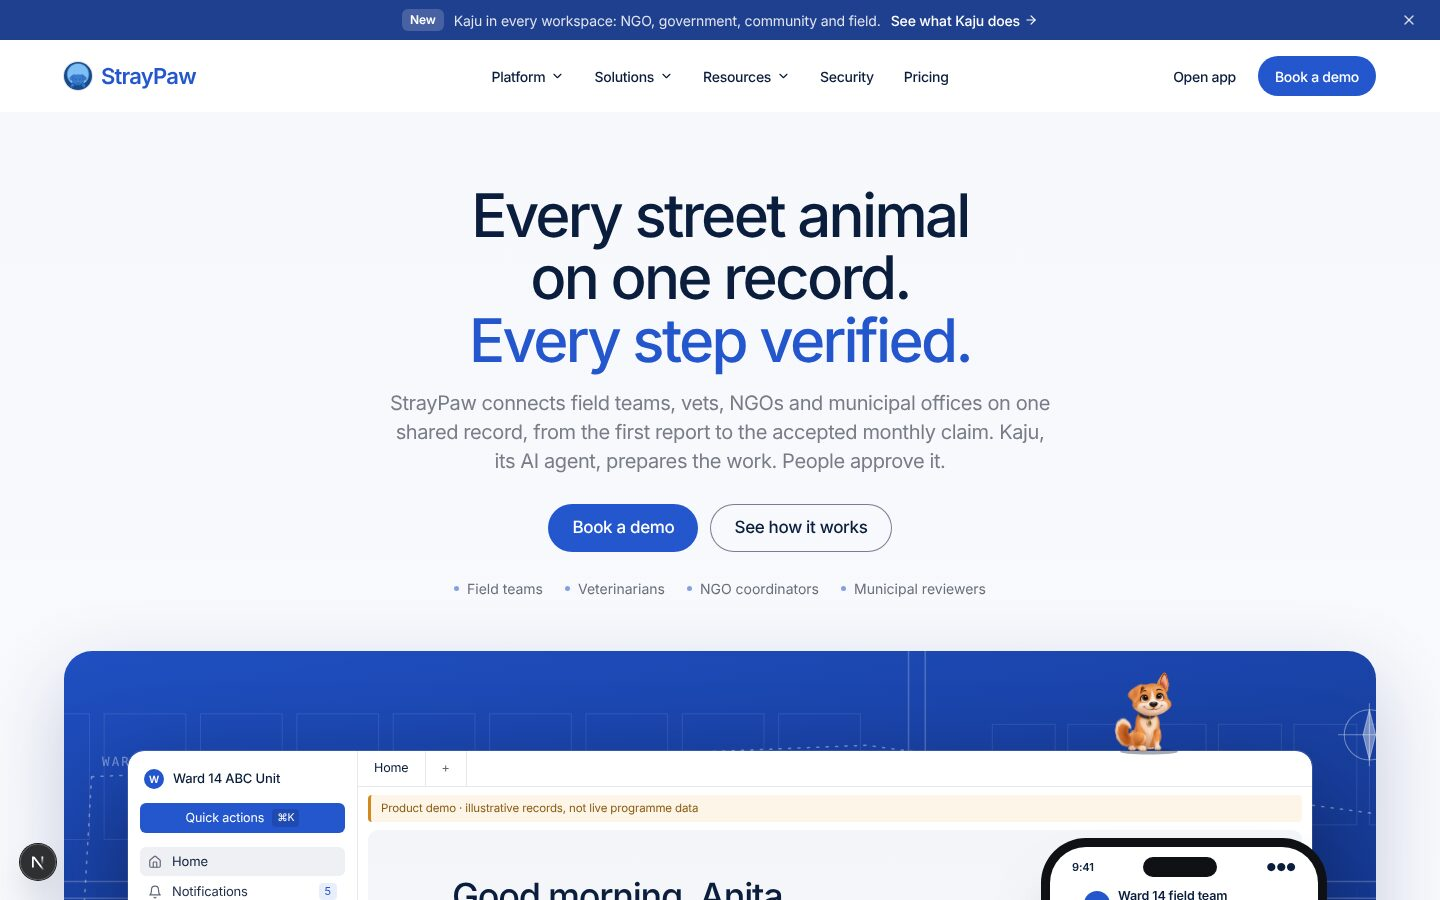
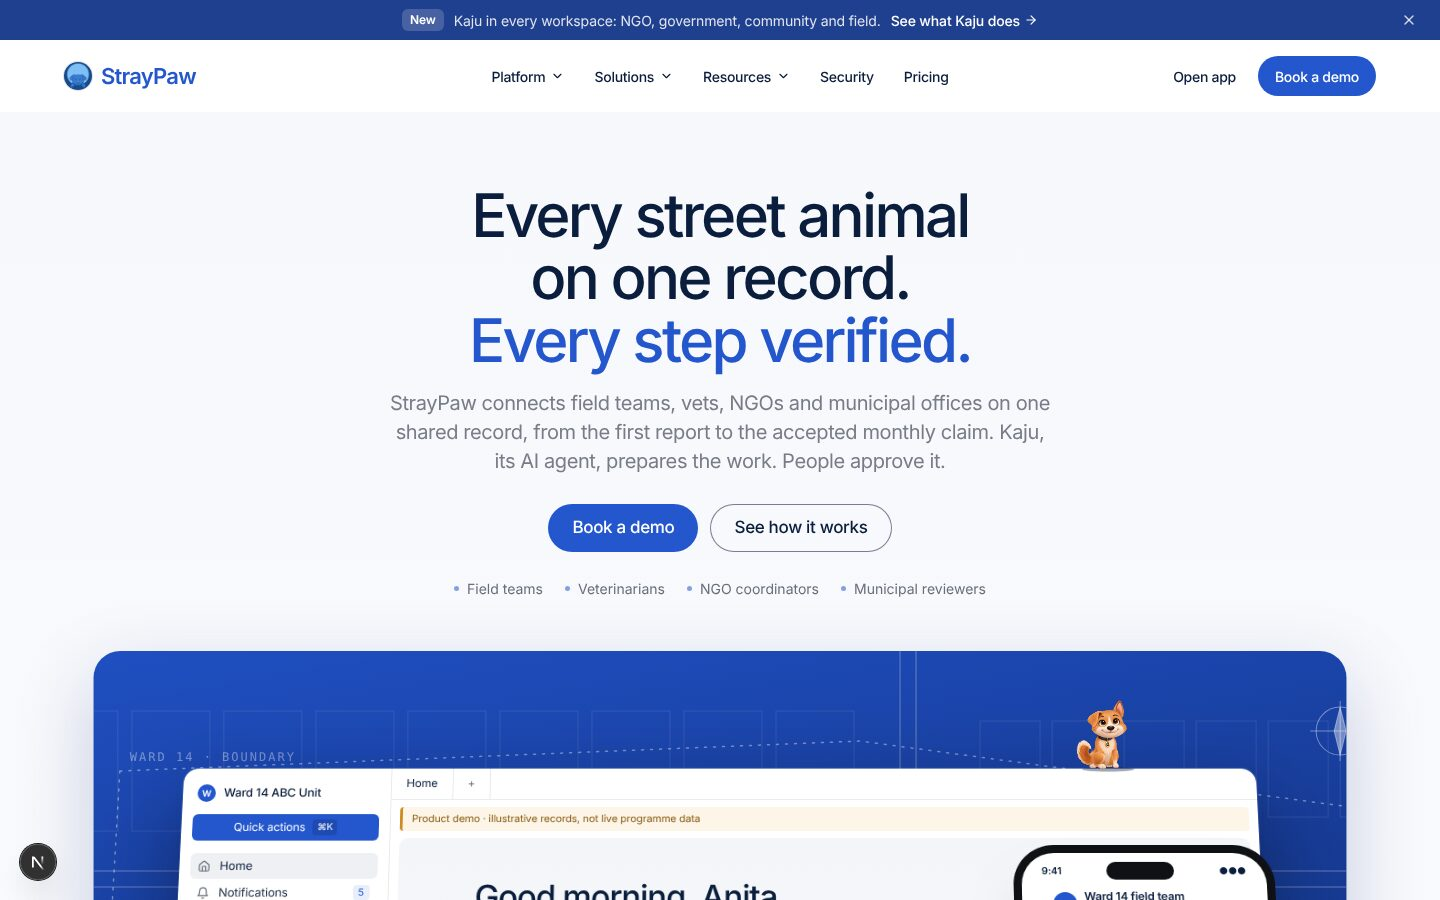
Dashboards as one sheet with the record-line pipeline; write-up
NGO Today: the five stages are a pipeline (a line with a node per
stage, counts above, drawn in on load); needs-you, Kaju's work and the
question box are parts of the same sheet. On a phone the line stands
upright with one row per stage. The government overview uses the same
sheet. DESIGN.md records the record-line motif and the one-object rule;
docs/sp5 has the updated notes, results and screenshots.

Claude-Session: https://claude.ai/code/session_015XZZNApuvadXvoS844YZf5

Changed region(s): [[0.0312, 0.7156, 0.9688, 1.0], [0.3125, 0.9644, 0.5625, 1.0], [0.2188, 0.9644, 0.25, 0.9956]]

diff --git a/src/sp/shell/app4.css b/src/sp/shell/app4.css
@@ -655,28 +655,96 @@ html .sp.sx3 .sp-main :is(.chip[aria-pressed="true"], .chip[aria-checked="true"]
 .sp.sx3 .wk2-start > svg:first-child { width: 18px; height: 18px; }
 .sp .wk2:has(> .wk2-start) { grid-template-rows: auto auto minmax(0, 1fr); }
 
-/* 7 · Today. The five stages are one connected strip on a desk and one
-      list on a phone (label left, count right, 48px rows) — five squeezed
-      tiles could not hold their own labels at 390px. An unread count is
-      said quietly, never set at figure size. */
-.sp.sx3 .br .jy .jy-c.is-na { font-size: 13px; font-weight: 400; letter-spacing: 0; color: #6b7486; align-self: end; padding-bottom: 5px; }
-@media (min-width: 861px) {
-  .sp.sx3 .br .jy ol { gap: 0; border: 1px solid #e4e8f0; border-radius: 12px; background: #fff; overflow: hidden; }
-  .sp.sx3 .br .jy li + li { border-left: 1px solid #e4e8f0; }
-  .sp.sx3 .br .jy a { border-radius: 0; box-shadow: none; min-height: 92px; }
-  .sp.sx3 .br .jy a:hover { transform: none; box-shadow: none; background: #f7f9fd; }
+/* 7 · Today: one sheet. The five stages are a pipeline, a single line the
+      record travels with a node per stage (the same line the website
+      draws). Under it, in the same sheet, what needs you and what Kaju
+      prepared share a hairline, and the question box is the sheet's foot.
+      On a phone the line turns upright and each stage is one 52px row. */
+.sp.sx3 .br .br-sheet { margin-top: 22px; border: 1px solid #dfe5f1; border-radius: 16px; background: #fff; overflow: hidden; }
+.sp.sx3 .br .br-sheet .jy { margin: 0; border-bottom: 1px solid #e9edf5; }
+.sp.sx3 .br .br-sheet .jy ol { display: grid !important; grid-template-columns: repeat(5, minmax(0, 1fr)) !important; gap: 0 !important; margin: 0 !important; padding: 0 !important; border: 0; border-radius: 0; background: none; overflow: visible !important; }
+.sp.sx3 .br .jy li { position: relative; min-width: 0 !important; border: 0 !important; animation: none; }
+.sp.sx3 .br .jy li::before { content: ""; position: absolute; left: 0; right: 0; top: 81px; height: 2px; background: #dfe5f1; transform-origin: 0 50%; }
+.sp.sx3 .br .jy li:first-child::before { left: 30px; }
+.sp.sx3 .br .jy li:last-child::before { right: auto; width: 30px; }
+.sp.sx3 .br .jy a { position: relative; display: grid !important; grid-template-columns: 1fr !important; grid-template-rows: 44px 30px auto !important; justify-items: start !important; text-align: left !important; gap: 0 !important; min-height: 0; padding: 22px 24px 20px !important; border-radius: 0; background: none; box-shadow: none; transition: background-color 160ms ease; }
+.sp.sx3 .br .jy a:hover { transform: none; box-shadow: none; background: #f7f9fd; }
+.sp.sx3 .br .jy a:focus-visible { outline: 2px solid #2457ce; outline-offset: -2px; }
+.sp.sx3 .br .jy .jy-c { grid-row: 1; grid-column: 1; margin: 0; align-self: end; font-size: 34px; line-height: 44px; font-weight: 500; letter-spacing: -0.035em; font-variant-numeric: tabular-nums; color: #b3b9c6; text-align: left; justify-self: start; }
+.sp.sx3 .br .jy .jy-c.is-on { color: #0b1e3d; }
+.sp.sx3 .br .jy .jy-c.is-na { font-size: 13px; line-height: 44px; font-weight: 400; letter-spacing: 0; color: #6b7486; padding: 0; }
+.sp.sx3 .br .jy .jy-n { display: block; grid-row: 2; grid-column: 1; align-self: center; margin: 0; width: 12px; height: 12px; border-radius: 50%; background: #fff; border: 2px solid #b9c6e4; box-shadow: 0 0 0 4px #fff; position: relative; z-index: 1; font-size: 0; }
+.sp.sx3 .br .jy .jy-n.is-on { background: #2457ce; border-color: #2457ce; }
+.sp.sx3 .br .jy li.is-mine .jy-n { box-shadow: 0 0 0 4px #fff, 0 0 0 6px rgba(36, 87, 206, .22); }
+.sp.sx3 .br .jy .jy-t { grid-row: 3; grid-column: 1; display: grid; gap: 1px; max-width: 100%; overflow: visible; white-space: normal; }
+.sp.sx3 .br .jy .jy-t b { font-size: 14px !important; font-weight: 500; color: #0b1e3d; letter-spacing: -0.01em; }
+.sp.sx3 .br .jy .jy-t small { display: block; font-size: 12.5px; line-height: 1.35; color: #6b7486; }
+@media (prefers-reduced-motion: no-preference) {
+  .sp.sx3 .br .jy li::before { animation: sp5-line 620ms cubic-bezier(.2,.7,.2,1) both; animation-delay: calc(var(--k, 0) * 90ms); }
+  .sp.sx3 .br .jy .jy-n { animation: sp5-node 380ms cubic-bezier(.2,.7,.2,1) both; animation-delay: calc(120ms + var(--k, 0) * 90ms); }
+  .sp.sx3 .br .jy .jy-c { animation: sp5-rise 420ms cubic-bezier(.2,.7,.2,1) both; animation-delay: calc(160ms + var(--k, 0) * 90ms); }
+  @keyframes sp5-line { from { transform: scaleX(0); } to { transform: scaleX(1); } }
+  @keyframes sp5-line-y { from { transform: scaleY(0); } to { transform: scaleY(1); } }
+  @keyframes sp5-node { from { transform: scale(0); } to { transform: scale(1); } }
+  @keyframes sp5-rise { from { opacity: 0; transform: translateY(6px); } to { opacity: 1; transform: none; } }
 }
+.sp.sx3 .br .jy li:nth-child(2) { --k: 1; } .sp.sx3 .br .jy li:nth-child(3) { --k: 2; } .sp.sx3 .br .jy li:nth-child(4) { --k: 3; } .sp.sx3 .br .jy li:nth-child(5) { --k: 4; }
+
+.sp.sx3 .br .br-sheet .br-warn { margin: 0; padding: 10px 24px; border-bottom: 1px solid #f1e3c2; background: #fffaf0; }
+.sp.sx3 .br .br-sheet .br-grid { margin: 0; gap: 0; }
+.sp.sx3 .br .br-sheet .br-card { padding: 20px 24px 22px; border-radius: 0; background: none; box-shadow: none; animation: none; }
+.sp.sx3 .br .br-sheet .br-card + .br-card { border-left: 1px solid #e9edf5; }
+.sp.sx3 .br .br-sheet .br-card-h h2 { font-size: 14px; font-weight: 500; }
+.sp.sx3 .br .br-sheet .br-ask { margin: 0; height: 56px; padding: 0 12px 0 24px; border-radius: 0; background: #fafbfe; box-shadow: none; border-top: 1px solid #e9edf5; }
+.sp.sx3 .br .br-sheet .br-ask:focus-within { box-shadow: inset 0 0 0 2px #2457ce; background: #fff; }
+.sp.sx3 .br .br-sheet .br-chips { margin: 0; padding: 0 24px 14px; background: #fafbfe; }
+.sp.sx3 .br .br-sheet .br-chips:empty { display: none; }
+.sp.sx3 .br .br-sheet .br-skel { margin: 20px 24px; }
+
 @media (max-width: 860px) {
-  .sp.sx3 .br .jy ol { display: grid !important; grid-template-columns: 1fr !important; gap: 0 !important; border: 1px solid #e4e8f0; border-radius: 12px; background: #fff; overflow: hidden !important; }
-  .sp.sx3 .br .jy li + li { border-top: 1px solid #eef0f4; }
-  .sp.sx3 .br .jy a { display: grid !important; grid-template-columns: minmax(0, 1fr) auto !important; grid-template-rows: auto !important; justify-items: start !important; align-items: center; text-align: left !important; gap: 12px; min-height: 48px; padding: 8px 14px !important; border-radius: 0; box-shadow: none; }
-  .sp.sx3 .br .jy .jy-t { grid-row: 1; grid-column: 1; display: flex; align-items: baseline; gap: 8px; overflow: hidden; }
-  .sp.sx3 .br .jy .jy-t b { font-size: 14.5px !important; font-weight: 500; color: #0b1e3d; }
-  .sp.sx3 .br .jy .jy-t small { display: block; font-size: 12.5px; color: #6b7486; white-space: nowrap; overflow: hidden; text-overflow: ellipsis; }
-  .sp.sx3 .br .jy .jy-c { grid-row: 1; grid-column: 2; margin: 0; font-size: 17px; justify-self: end; font-variant-numeric: tabular-nums; }
-  .sp.sx3 .br .jy .jy-c.is-na { padding: 0; align-self: center; }
-  .sp.sx3 .br .jy .jy-n { display: none; }
+  .sp.sx3 .br .br-sheet { margin-top: 16px; border-radius: 14px; }
+  .sp.sx3 .br .br-sheet .jy ol { grid-template-columns: 1fr !important; padding: 6px 0 !important; }
+  .sp.sx3 .br .jy li::before { left: 21px; right: auto; top: 0; bottom: 0; width: 2px; height: auto; transform-origin: 50% 0; animation-name: sp5-line-y; }
+  .sp.sx3 .br .jy li:first-child::before { left: 21px; top: 50%; }
+  .sp.sx3 .br .jy li:last-child::before { width: 2px; bottom: 50%; }
+  .sp.sx3 .br .jy a { grid-template-columns: 12px minmax(0, 1fr) auto !important; grid-template-rows: auto !important; align-items: center; column-gap: 14px !important; min-height: 52px; padding: 8px 16px !important; }
+  .sp.sx3 .br .jy .jy-n { grid-row: 1; grid-column: 1; }
+  .sp.sx3 .br .jy .jy-t { grid-row: 1; grid-column: 2; display: flex; align-items: baseline; gap: 8px; overflow: hidden; }
+  .sp.sx3 .br .jy .jy-t b { font-size: 14.5px !important; flex: none; }
+  .sp.sx3 .br .jy .jy-t small { white-space: nowrap; overflow: hidden; text-overflow: ellipsis; }
+  .sp.sx3 .br .jy .jy-c { grid-row: 1; grid-column: 3; justify-self: end; font-size: 19px; line-height: 1.2; align-self: center; }
+  .sp.sx3 .br .jy .jy-c.is-na { line-height: 1.2; }
+  .sp.sx3 .br .br-sheet .br-card { padding: 16px; }
+  .sp.sx3 .br .br-sheet .br-card + .br-card { border-left: 0; border-top: 1px solid #e9edf5; }
+  .sp.sx3 .br .br-sheet .br-warn { padding: 10px 16px; }
+  .sp.sx3 .br .br-sheet .br-ask { height: 52px; padding: 0 8px 0 16px; }
+  .sp.sx3 .br .br-sheet .br-chips { padding: 0 16px 12px; }
 }
+
+/* 7b · Government overview: the same sheet. Decisions are a strip, claims
+       and operators share a hairline beneath it; nothing floats on its own. */
+.sp.sx3 .os .os-tiles { gap: 0; border: 1px solid #dfe5f1; border-radius: 16px 16px 0 0; background: #fff; overflow: hidden; }
+.sp.sx3 .os .os-tiles li + li { border-left: 1px solid #e9edf5; }
+.sp.sx3 .os .os-tiles a { padding: 20px 24px; border-radius: 0; box-shadow: none; gap: 4px; }
+.sp.sx3 .os .os-tiles a:hover { transform: none; box-shadow: none; background: #f7f9fd; }
+.sp.sx3 .os .os-tiles .is-due a { box-shadow: inset 0 -2px 0 #2457ce; }
+.sp.sx3 .os .os-tiles b { font-size: 34px; line-height: 1.1; font-weight: 500; letter-spacing: -0.035em; }
+.sp.sx3 .os .os-tiles svg { top: 20px; right: 20px; }
+.sp.sx3 .os .os-tiles span { padding-right: 24px; }
+.sp.sx3 .os .os-grid { gap: 0; margin-top: 0; border: 1px solid #dfe5f1; border-top: 0; border-radius: 0 0 16px 16px; background: #fff; overflow: hidden; }
+.sp.sx3 .os .os-card { padding: 20px 24px 22px; border-radius: 0; box-shadow: none; background: none; }
+.sp.sx3 .os .os-card + .os-card { border-left: 1px solid #e9edf5; }
+.sp.sx3 .os .os-card h3 { font-weight: 500; }
+@media (max-width: 900px) {
+  .sp.sx3 .os .os-tiles li:nth-child(odd) { border-left: 0; }
+  .sp.sx3 .os .os-tiles li:nth-child(n + 3) { border-top: 1px solid #e9edf5; }
+  .sp.sx3 .os .os-tiles a { padding: 16px; }
+  .sp.sx3 .os .os-tiles b { font-size: 28px; }
+  .sp.sx3 .os .os-grid { grid-template-columns: 1fr; }
+  .sp.sx3 .os .os-card { padding: 16px; }
+  .sp.sx3 .os .os-card + .os-card { border-left: 0; border-top: 1px solid #e9edf5; }
+}
+@media (max-width: 760px) { .sp.sx3 .os { padding-left: 0; padding-right: 0; } }
 
 /* 8 · Kaju docked. The panel is 440px wide; the page reserved 400px, so the
       panel covered the top bar's primary action. Reserve what it takes. */

diff --git a/src/sp/ngo/Brief.tsx b/src/sp/ngo/Brief.tsx
@@ -139,6 +139,8 @@ export function Brief() {
               return <>Since yesterday: {parts.map((p, i) => <Fragment key={i}>{i > 0 && (i === parts.length - 1 ? ", and " : ", ")}{p}</Fragment>)}.</>;
             })()}</p>}
 
+        {/* One sheet: the pipeline, what needs you, what Kaju prepared and the question box are parts of one surface. */}
+        <div className="br-sheet">
         {mem.org && <Journey key={`journey:${mem.org.id}`} orgId={mem.org.id} role={role} />}
         {d && <>
           {d.unavailable.length>0&&<p role="status" className="br-warn">Some sections could not be read: {d.unavailable.join(", ")}. Open the relevant queue to retry.</p>}
@@ -162,6 +164,7 @@ export function Brief() {
           </form>
           <div className="br-chips">{(todo.length ? ["What should I do first today, and why?"] : []).concat(out.length > 1 ? ["Summarise what changed since yesterday."] : [], reviews ? ["Which records block this month's report package?"] : isVet ? ["What can only the veterinarian authorise?"] : ["Help me prepare a field update."]).slice(0, 3).map((t) => <button key={t} type="button" onClick={() => send(t)}><Sparkles size={12} aria-hidden />{t}</button>)}</div>
         </>}
+        </div>
       </div>
 
     </div>

diff --git a/docs/sp5/REDESIGN-2026-11-09.md b/docs/sp5/REDESIGN-2026-11-09.md
@@ -65,6 +65,31 @@ The app was run locally and looked at in Chromium at 1440, 834 and 390 px.
 - Every record shown is illustrative and labelled. No new figures, customers
   or capabilities are claimed. Pilot copy restates the existing FAQ answers.
 
+### Second pass: one piece (same day)
+
+Asked for a bolder, more cohesive result on the same blueprint.
+
+- **The record line.** A thin line now threads the homepage: a 2px reading
+  bar on every screen and, on wide screens, a chapter rail with a node per
+  chapter (`src/sp5/home/Spine.tsx`). The same line is the NGO Today
+  pipeline, so the site and the product share one motif.
+- **Hero.** One staged arrival (headline, copy, actions, roles, then the
+  product window); the window leans back and comes upright as you scroll.
+- **No loose cards on the homepage.** Partners are one ruled band of marks.
+  The operator and office screens sit in one frame with the package
+  travelling between them. Kaju is one console (three things it does, one
+  screen) instead of three cards. Integrations are a three-column status
+  board (live, built and waiting for keys, not yet) inside the Kaju chapter.
+  Every chapter uses the same frame, radius and ground.
+- **Today is one sheet.** The five stages are a pipeline: a line with a node
+  per stage, counts above it, drawn in on load. What needs you, what Kaju
+  prepared and the question box are parts of the same sheet, split by
+  hairlines. On a phone the line stands upright and each stage is one row.
+- **Government overview is one sheet** in the same language: a decision
+  strip with claims and operators beneath it.
+- All new motion is off under `prefers-reduced-motion`; nothing is hidden
+  without JavaScript.
+
 ## Navigation architecture (unchanged in structure, unified in naming)
 
 The registry in `src/sp/shell/workspaces.ts` stays the single source. Routes,
@@ -125,7 +150,7 @@ Run on this branch on 9 November 2026, with no database configured.
 | `npm run build` | Pass |
 | `scripts/test-workspace-registry.ts` | 12 of 12 |
 | `scripts/no-fixtures.mjs` | Clean |
-| Playwright, 248 tests, phone and desktop | 233 pass, 15 skipped by the suite's own conditions. In the last full run 225 passed and 8 timed out while lint was running on the same machine; those 8 pass when re-run alone. No single uninterrupted run of all 248 was made after the final copy change |
+| Playwright, 248 tests, phone and desktop | 233 pass, 15 skipped by the suite's own conditions, in one uninterrupted run after the last change |
 | Horizontal overflow at 1440, 834 and 390 px | 0 px on every page captured |
 
 Six tests were updated because they pinned the old homepage headline and

diff --git a/DESIGN.md b/DESIGN.md
@@ -36,6 +36,13 @@ These replace the matching lines of 4.0 below. Evidence and reasoning:
 - **Back** appears only on a record or form (a page below a named place).
   Named places are reached from the sidebar, tabs and breadcrumb. Section
   tabs do not appear on a record.
+- **The record line** is StrayPaw's motif: one thin blue line with a node
+  per step. It is the homepage's chapter rail and reading bar and the
+  pipeline on NGO Today. Use it for sequence; do not decorate with it.
+- **One object per idea.** A section or dashboard is one framed surface
+  (hairline `#dfe5f1`, radius 16 in the app and 20 on the site, ground
+  `#f5f7fb` where a product screen sits) divided by hairlines. Do not set
+  related things as separate floating cards.
 - **Stat strips on a phone** are a list (label left, count right, 48px
   rows), never five squeezed tiles. An unread count says "not read" at
   text size, never at figure size.
